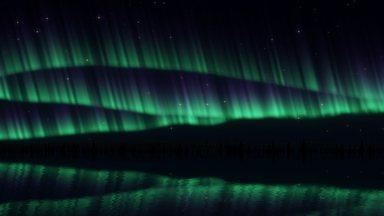
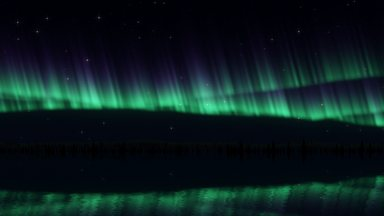
Aurora's hills hold a few fair-sized trees instead of thousands of tiny ones: three rows instead of five, the back ones about three times as large as the smallest were (0.63 of the front ones' size instead of 0.26) and sparser, which is less work for the graphics card too. Its picture again.

diff --git a/apps/desktop/renderer/app/viz/aurora.js b/apps/desktop/renderer/app/viz/aurora.js
@@ -145,7 +145,7 @@
     // with clearings between, each its own size (a few larger all round, up
     // to three times the rest by the water, less so further back), in tiers
     // narrowing to the tip. Drawn from the back.
-    const int DEPTHS = 5;
+    const int DEPTHS = 3;   // few rows of fair-sized trees rather than thousands of tiny ones
     // Value noise along a line, for the clusters (cheaper than vnoise).
     float noise1(float x) {
       float i = floor(x);
@@ -155,10 +155,10 @@
     vec3 forest(vec3 col, float x, float y, float top) {
       if (y < 0.0 || y > top + 0.08) return col;
       float edge = 1.2 / res.y;
-      const float FAR = 1.0 / (1.0 + 0.7 * float(DEPTHS - 1));
+      const float FAR = 1.0 / (1.0 + 0.3 * float(DEPTHS - 1));
       for (int row = DEPTHS - 1; row >= 0; row--) {
         float fr = float(row);
-        float scale = 1.0 / (1.0 + 0.7 * fr);
+        float scale = 1.0 / (1.0 + 0.3 * fr);        // 1, 0.77, 0.63
         float back = (1.0 - scale) / (1.0 - FAR);      // 0 at the water, 1 the farthest
         float foot = top * 0.8 * back;
         vec3 shade = mix(vec3(0.0015, 0.002, 0.003), vec3(0.013, 0.017, 0.028), 0.7 * back);
@@ -184,7 +184,7 @@
           if (t < 0.0 || t > 1.0 || at > top - 0.002) continue;
           // In a clearing, or not there anyway.
           float dense = smoothstep(0.3, 0.6, noise1((c + 0.5) * w * 6.0 + fr * 5.3));
-          if (hash12(id + 3.3) > dense * 0.92) continue;
+          if (hash12(id + 3.3) > dense * (0.92 - 0.3 * back)) continue;   // sparser further back
           float tiers = 4.0 + floor(3.0 * hash12(id + 9.9));
           float wide = h * 0.26 * (1.0 - t) * (0.62 + 0.38 * fract((1.0 - t) * tiers));
           if (t < 0.1) wide = max(wide, h * 0.025);   // the trunk
